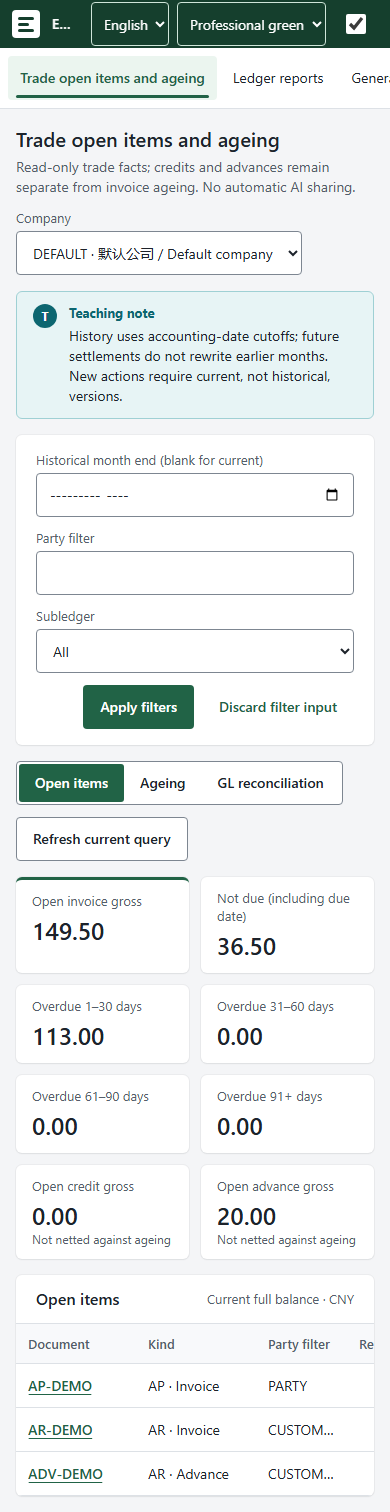
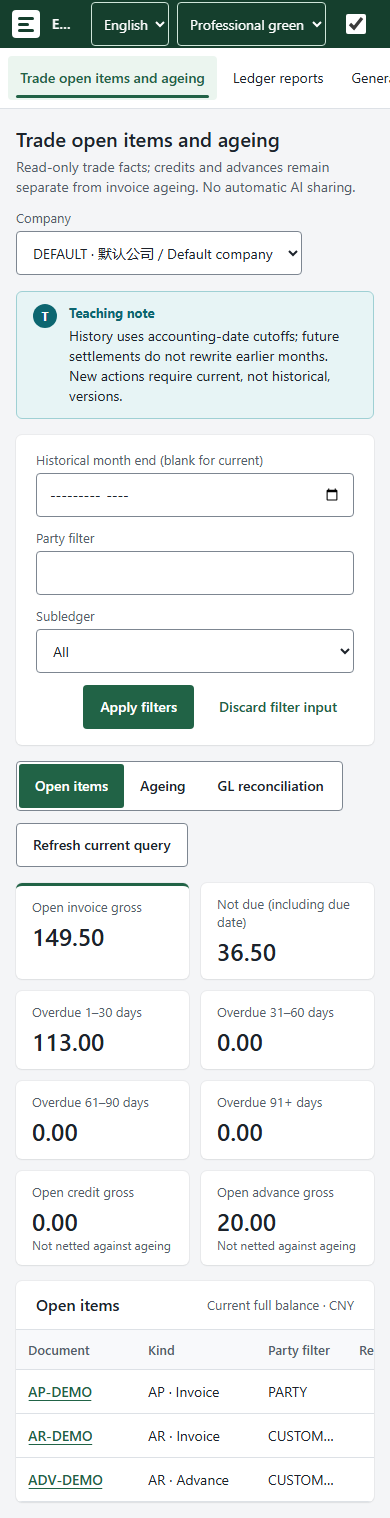
UI-02a: 44px report actions on narrow/coarse, teaching title from labels

diff --git a/packages/web/src/ui/components/index.tsx b/packages/web/src/ui/components/index.tsx
@@ -1,12 +1,8 @@
 import type { ReactNode } from "react";
-import type { Language } from "../labels.ts";
 import "../../theme/components.css";
 
 // UI-1 shared components (design/ui/README.md §5, §6): thin wrappers that only add layout classes.
 // Children keep their own IDs, names and events.
-
-// design/ui §6: tip title per language; the decorative mark is aria-hidden.
-const teachingNote: Readonly<Record<Language, string>> = { zh: "教学说明", en: "Teaching note" };
 
 export function PageHeader({
   title,
@@ -28,22 +24,24 @@ export function PageHeader({
   );
 }
 
-/** Not rendered at all when teaching is off (PG-04: boundaries, risks and errors live elsewhere). */
+/**
+ * Not rendered at all when teaching is off (PG-04: boundaries, risks and errors live elsewhere).
+ * `title` comes from the caller's labels; it is both the visible heading and the accessible name.
+ */
 export function TeachingTip({
   teaching,
-  language,
+  title,
   children,
 }: {
   teaching: boolean;
-  language: Language;
+  title: string;
   children: ReactNode;
 }) {
   if (!teaching) return null;
-  const title = teachingNote[language];
   return (
     <aside className="teaching-tip" aria-label={title}>
       <span className="mark" aria-hidden="true">
-        {title[0]}
+        {Array.from(title)[0]}
       </span>
       <strong>{title}</strong>
       <p>{children}</p>

diff --git a/packages/web/src/ui/trade-report-labels.ts b/packages/web/src/ui/trade-report-labels.ts
@@ -25,6 +25,7 @@ export const tradeReportZh = {
   "trpt.overdue61_90": "逾期 61–90 天",
   "trpt.overdue91Plus": "逾期 91 天以上",
   "trpt.notNetted": "不抵消账龄",
+  "trpt.teachingTitle": "教学说明",
   "trpt.detail": "未结项来源详情",
   "trpt.document": "单据",
   "trpt.original": "原发票",
@@ -87,6 +88,7 @@ export const tradeReportEn: Record<keyof typeof tradeReportZh, string> = {
   "trpt.overdue61_90": "Overdue 61–90 days",
   "trpt.overdue91Plus": "Overdue 91+ days",
   "trpt.notNetted": "Not netted against ageing",
+  "trpt.teachingTitle": "Teaching note",
   "trpt.detail": "Open item source detail",
   "trpt.document": "Document",
   "trpt.original": "Original invoice",

diff --git a/packages/web/src/theme/components.css b/packages/web/src/theme/components.css
@@ -43,8 +43,8 @@
 .btn-subtle:active:not(:disabled) {
   background: var(--color-primary-soft);
 }
+/* 不压低高度：沿用 --control-h（桌面 36px，窄屏或粗指针 44px，design/ui §7）。 */
 .btn-sm {
-  min-height: 28px;
   padding: 0 var(--space-2);
   font-size: var(--text-sm);
 }
@@ -165,6 +165,12 @@
   color: var(--color-text);
   font-weight: var(--weight-semibold);
   cursor: pointer;
+}
+/* design/ui §7：窄屏或粗指针下视图按钮自身保持 44px（断点与 shell.css 一致）。 */
+@media (max-width: 760px), (pointer: coarse) {
+  .segmented button {
+    min-height: var(--control-h);
+  }
 }
 .segmented button:hover:not(:disabled),
 .segmented button:active:not(:disabled) {

diff --git a/packages/web/src/TradeReports.tsx b/packages/web/src/TradeReports.tsx
@@ -52,7 +52,7 @@ export function TradeReports({ preferences }: { preferences: Preferences }) {
       ) : (
         <>
           {header()}
-          <TeachingTip teaching={preferences.teaching} language={preferences.language}>
+          <TeachingTip teaching={preferences.teaching} title={t("trpt.teachingTitle")}>
             {t("trpt.teaching")}
           </TeachingTip>
         </>
@@ -187,7 +187,7 @@ function CompanyReports({
           )}
         </>,
       )}
-      <TeachingTip teaching={preferences.teaching} language={preferences.language}>
+      <TeachingTip teaching={preferences.teaching} title={t("trpt.teachingTitle")}>
         {t("trpt.teaching")}
       </TeachingTip>
       <form

diff --git a/packages/web/src/pages/trade-reports.css b/packages/web/src/pages/trade-reports.css
@@ -20,8 +20,7 @@
 .trade-reports .trpt-reconciliation th:nth-child(n + 2) {
   text-align: right;
 }
-.trade-reports .trpt-items th:first-child,
-.trade-reports .trpt-items th:nth-child(2) {
+.trade-reports .trpt-items th:nth-child(-n + 2) {
   width: 120px;
 }
 .trade-reports .trpt-items th:nth-child(7) {
